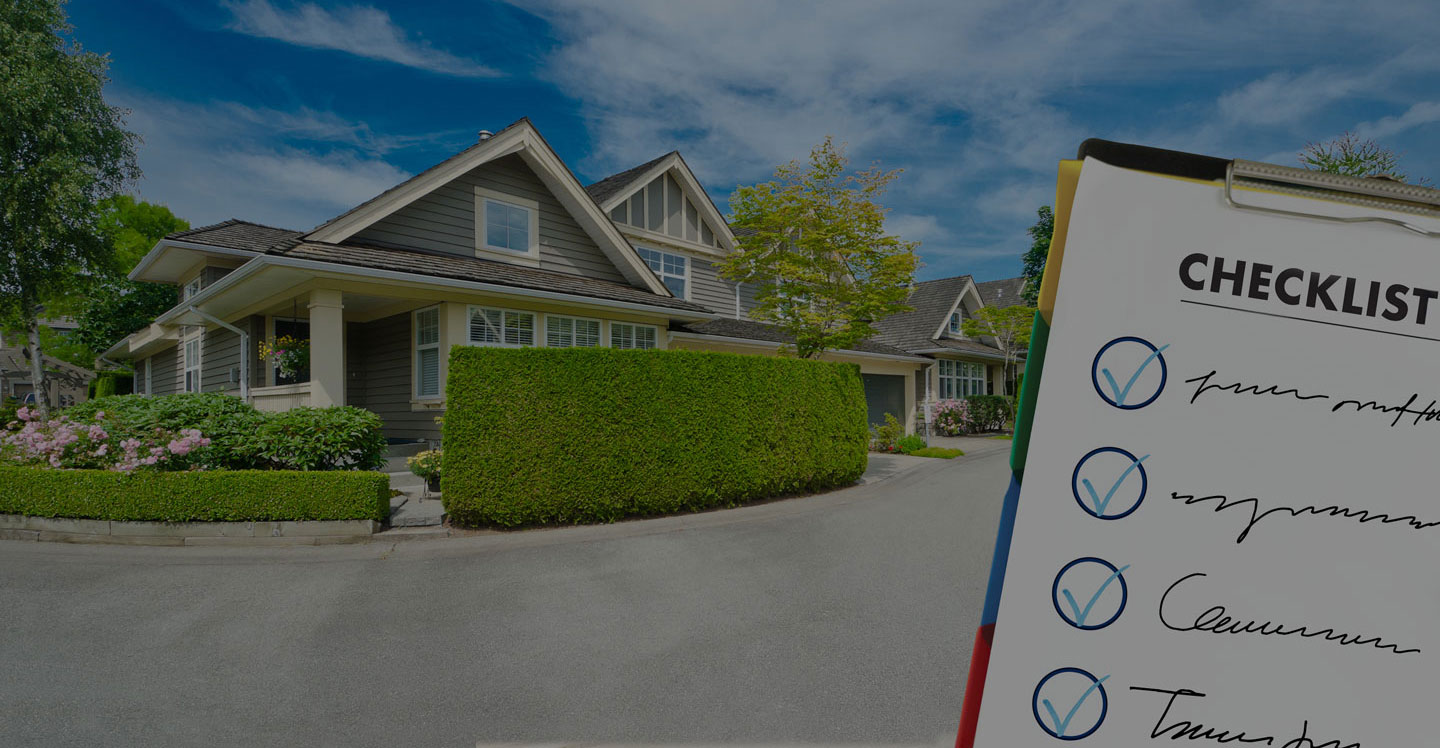
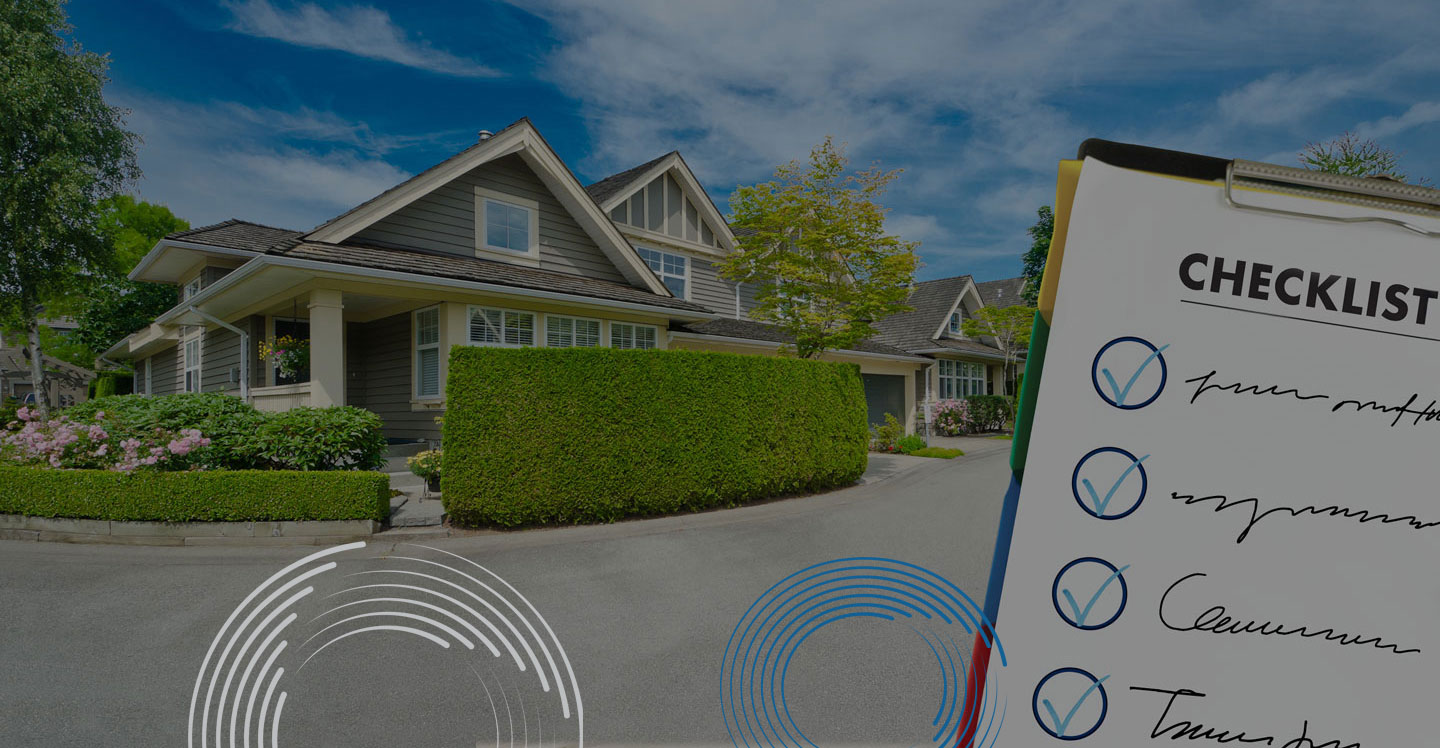
Added Phone and new img, styles

Changed region(s): [[0.125, 0.7072, 0.4062, 1.0], [0.5, 0.738, 0.7188, 1.0]]

diff --git a/index.html b/index.html
@@ -26,6 +26,23 @@
       overflow-x: hidden;
     }
 
+
+    .rcn-btn-primary {
+      background-color: var(--rcn-primary);
+      color: #fff;
+      padding: 0.5rem 1rem;
+      border: 2px solid transparent;
+      border-radius: var(--rcn-btn-border-radius);
+      transition: all 0.3s ease-in-out;
+      cursor: pointer;
+    }
+
+    .rcn-btn-primary:hover {
+      background-color: #fff;
+      color: var(--rcn-primary);
+      border: 2px solid var(--rcn-primary);
+    }
+
     .container {
       max-width: 1200px;
       margin-inline: auto;
@@ -92,7 +109,7 @@
       background-image: url('hero-bg.jpg');
       min-height: 750px;
       background-size: cover;
-      background-repeat: no-repeat;
+      background-position: bottom;
       color: #fff;
       padding-block: 5rem;
       text-align: center;
@@ -106,8 +123,41 @@
     }
 
     .hero-svg-holder {
-      margin-top: -22vw;
+      margin-top: -21.5vw;
       overflow: hidden;
+    }
+
+    .title-section {
+      margin-block: 5rem;
+
+    }
+
+    .title-section h2 {
+      color: var(--rcn-primary);
+      text-align: center;
+      font-size: 2.5rem;
+    }
+
+    .cta {
+      margin-block: 10rem;
+      display: grid;
+      grid-template-columns: 1fr 1fr;
+      gap: 2rem;
+      align-items: center;
+      justify-content: center;
+      max-width: 1200px;
+      margin-inline: auto;
+    }
+
+    .cta h2 {
+      font-size: 2.5rem;
+      color: var(--rcn-primary);
+
+    }
+
+    .cta img {
+      width: 100%;
+      height: auto;
     }
 
     .form-section {
@@ -176,6 +226,22 @@
       </path>
     </svg>
   </div>
+
+  <section class="title-section">
+    <h2>RCN Capital Provides Exclusive Financing <br> for Real Estate Investors</h2>
+  </section>
+
+
+  <section class="cta">
+    <div class="text-content">
+      <h2>Find Out How to Qualify</h2>
+      <p>Click the button below to download our Checklist!</p>
+      <button class="rcn-btn-primary">Download Now</button>
+    </div>
+    <div class="image-content">
+      <img src="phone.png" alt="" srcset="">
+    </div>
+  </section>
   <section class="form-section">
 
     <div class="formstack-container">

diff --git a/script.js b/script.js
@@ -21,3 +21,18 @@ function populateFormWithQueryParams() {
 document.addEventListener("DOMContentLoaded", () => {
   populateFormWithQueryParams();
 });
+
+const ICONS = [
+  {
+    menu: `<svg xmlns="http://www.w3.org/2000/svg" fill="none" viewBox="0 0 24 24" stroke-width="1.5" stroke="currentColor" class="w-6 h-6">
+  <path stroke-linecap="round" stroke-linejoin="round" d="M3.75 5.25h16.5m-16.5 4.5h16.5m-16.5 4.5h16.5m-16.5 4.5h16.5" />
+</svg>
+`,
+  },
+  {
+    close: `<svg xmlns="http://www.w3.org/2000/svg" fill="none" viewBox="0 0 24 24" stroke-width="1.5" stroke="currentColor" class="w-6 h-6">
+  <path stroke-linecap="round" stroke-linejoin="round" d="M6 18L18 6M6 6l12 12" />
+</svg>
+`,
+  },
+];
